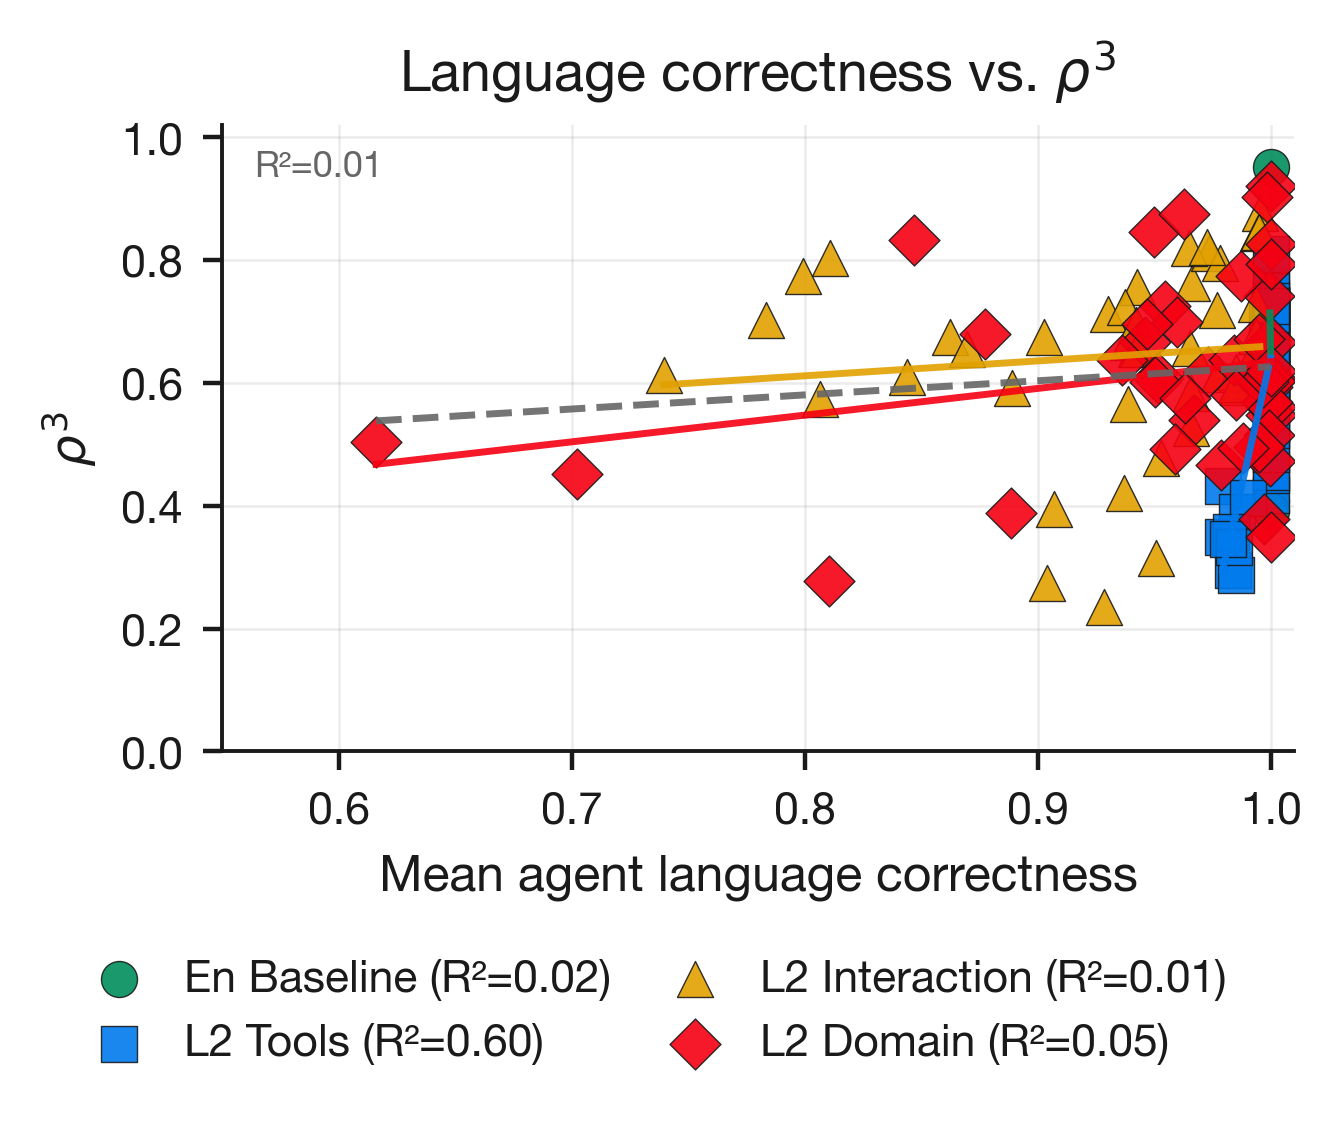
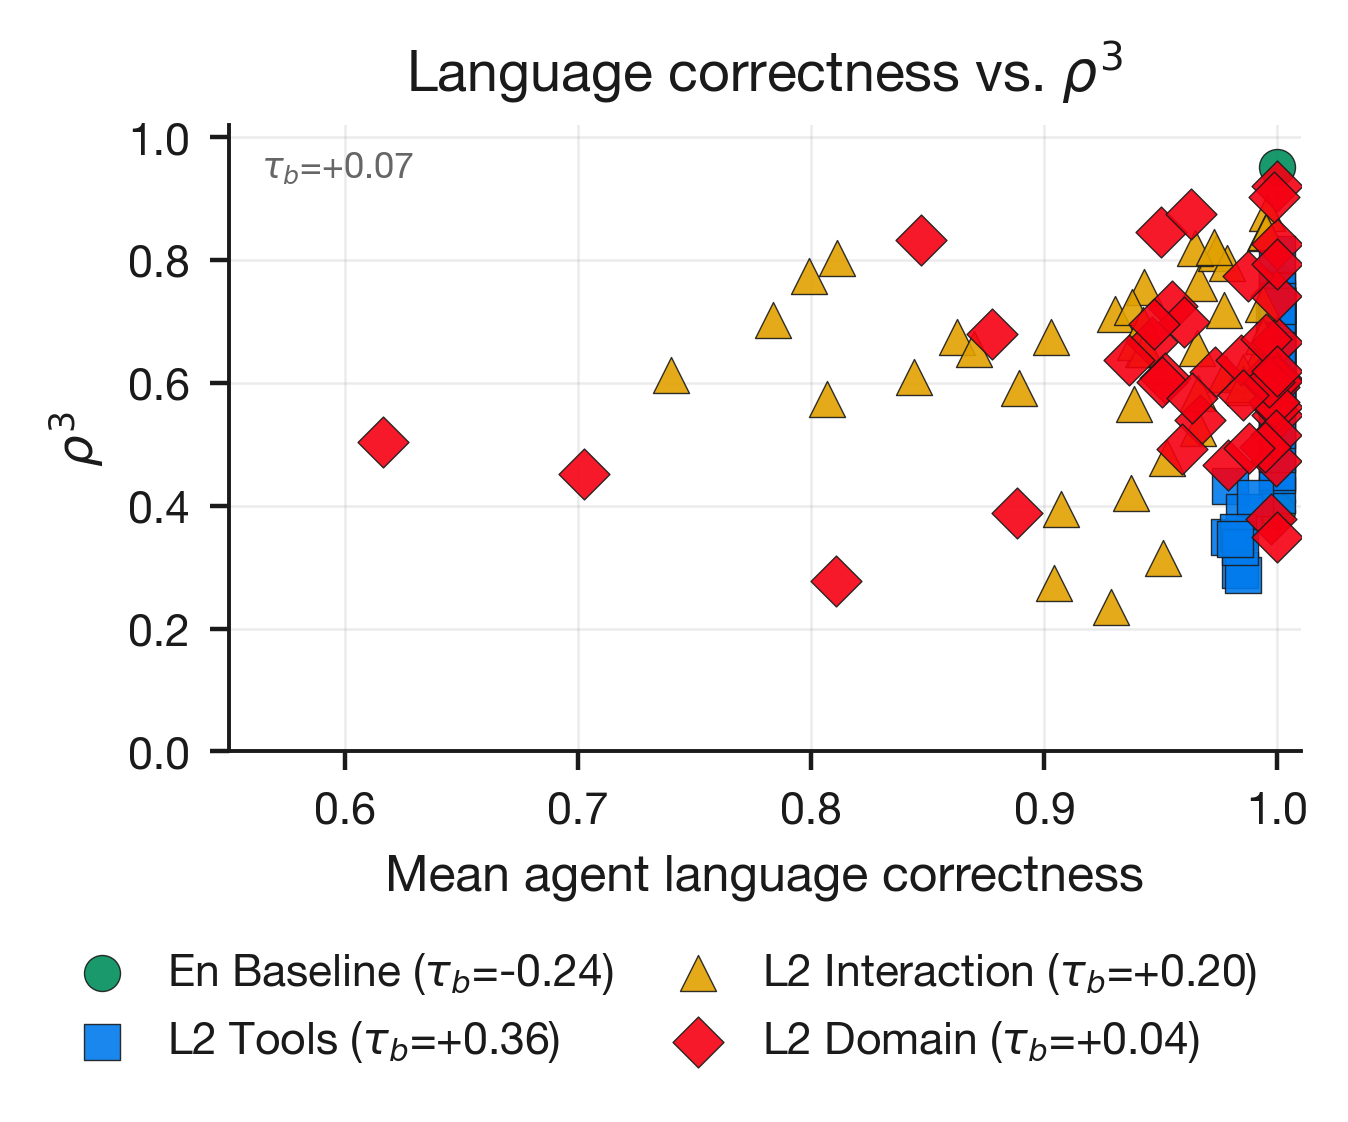
feat: report Kendall tau for language robustness plot

diff --git a/src/seatau/plot/language_vs_robustness.py b/src/seatau/plot/language_vs_robustness.py
@@ -6,8 +6,8 @@ import argparse
 from pathlib import Path
 
 import matplotlib.pyplot as plt
-import numpy as np
 import pandas as pd
+from scipy.stats import kendalltau
 
 from seatau.plot.language_degradation_shared import (
     DEFAULT_ANALYSIS_DIR,
@@ -72,25 +72,25 @@ def build_language_vs_robustness(
         scenario: frame
         for scenario, frame in df.groupby("scenario", sort=False, dropna=False)
     }
-    r_squared_values: dict[str, float] = {}
-    fit_lines: dict[str, tuple[np.ndarray, np.ndarray]] = {}
+    kendall_values: dict[str, float] = {}
     for scenario in [*scenario_order, "combined"]:
         sub = df if scenario == "combined" else grouped.get(scenario)
         if sub is None or len(sub) < 2:
             continue
         x = sub["agent_language_correctness"].to_numpy(dtype=float)
         y = sub["rho_3"].to_numpy(dtype=float)
-        if np.ptp(x) == 0 or np.ptp(y) == 0:
+        if (
+            sub["agent_language_correctness"].nunique() < 2
+            or sub["rho_3"].nunique() < 2
+        ):
             continue
-        fit = np.polyfit(x, y, deg=1)
-        x_line = np.linspace(np.nanmin(x), np.nanmax(x), 80)
-        fit_lines[scenario] = (x_line, fit[0] * x_line + fit[1])
-        corr = np.corrcoef(x, y)[0, 1]
-        r_squared_values[scenario] = float(corr * corr)
+        kendall_values[scenario] = float(kendalltau(x, y).statistic)
     for scenario in scenario_order:
         sub = grouped.get(scenario)
         if sub is None or sub.empty:
             continue
+        tau = kendall_values.get(scenario)
+        tau_label = f"$\\tau_b$={tau:+.2f}" if tau is not None else "$\\tau_b$=NA"
         ax.scatter(
             sub["agent_language_correctness"],
             sub["rho_3"],
@@ -100,26 +100,14 @@ def build_language_vs_robustness(
             color=scenario_colors[scenario],
             edgecolor=SEA_COLORS["black"],
             linewidth=0.25,
-            label=f"{scenario_labels[scenario]} (R²={r_squared_values[scenario]:.2f})",
+            label=f"{scenario_labels[scenario]} ({tau_label})",
             zorder=3,
         )
-    for scenario in [*scenario_order, "combined"]:
-        if scenario not in fit_lines:
-            continue
-        line_color = "#666666" if scenario == "combined" else scenario_colors[scenario]
-        ax.plot(
-            *fit_lines[scenario],
-            color=line_color,
-            linestyle="--" if scenario == "combined" else "-",
-            linewidth=1.25,
-            alpha=0.9,
-            zorder=4,
-        )
-    if "combined" in r_squared_values:
+    if "combined" in kendall_values:
         ax.text(
             0.03,
             0.96,
-            f"R²={r_squared_values['combined']:.2f}",
+            rf"$\tau_b$={kendall_values['combined']:+.2f}",
             transform=ax.transAxes,
             color="#666666",
             ha="left",
